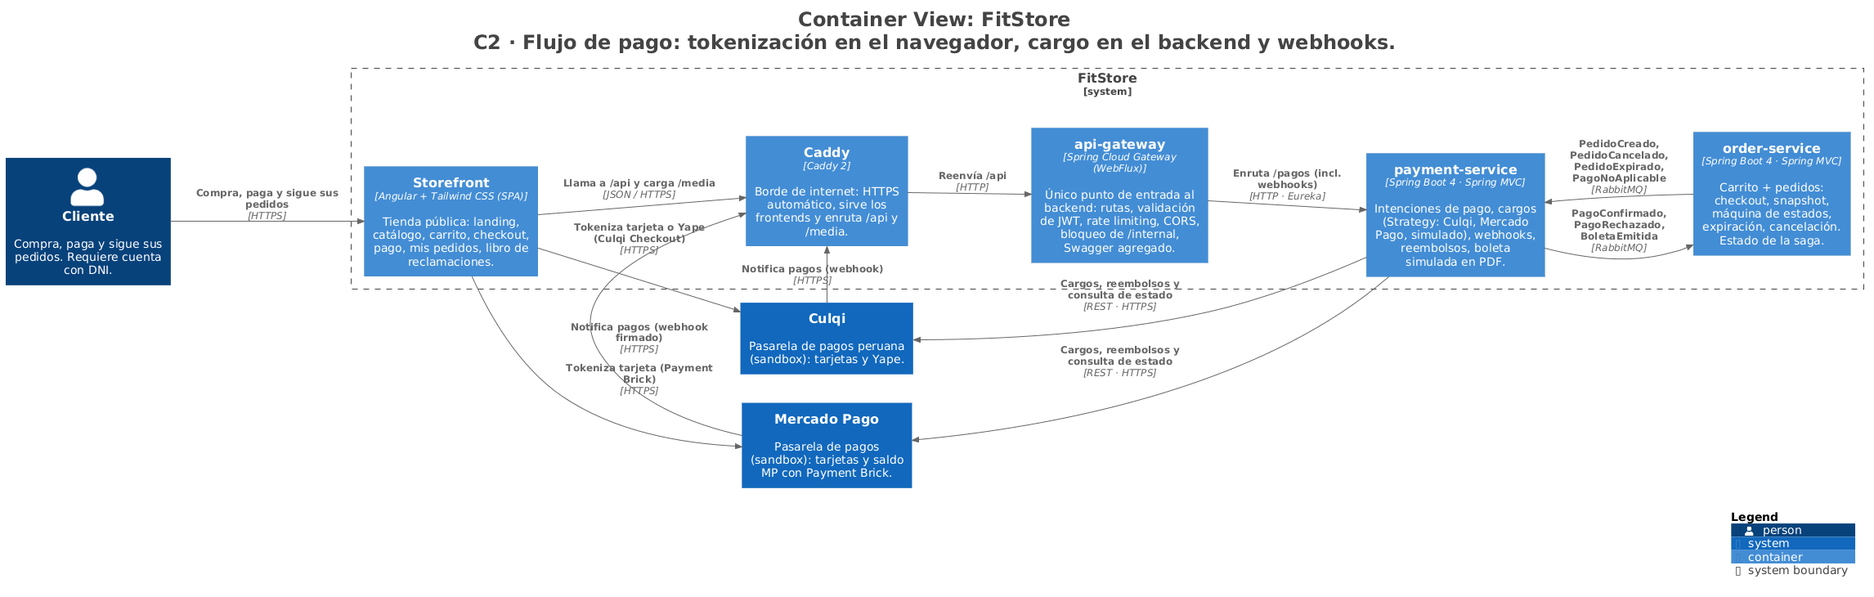
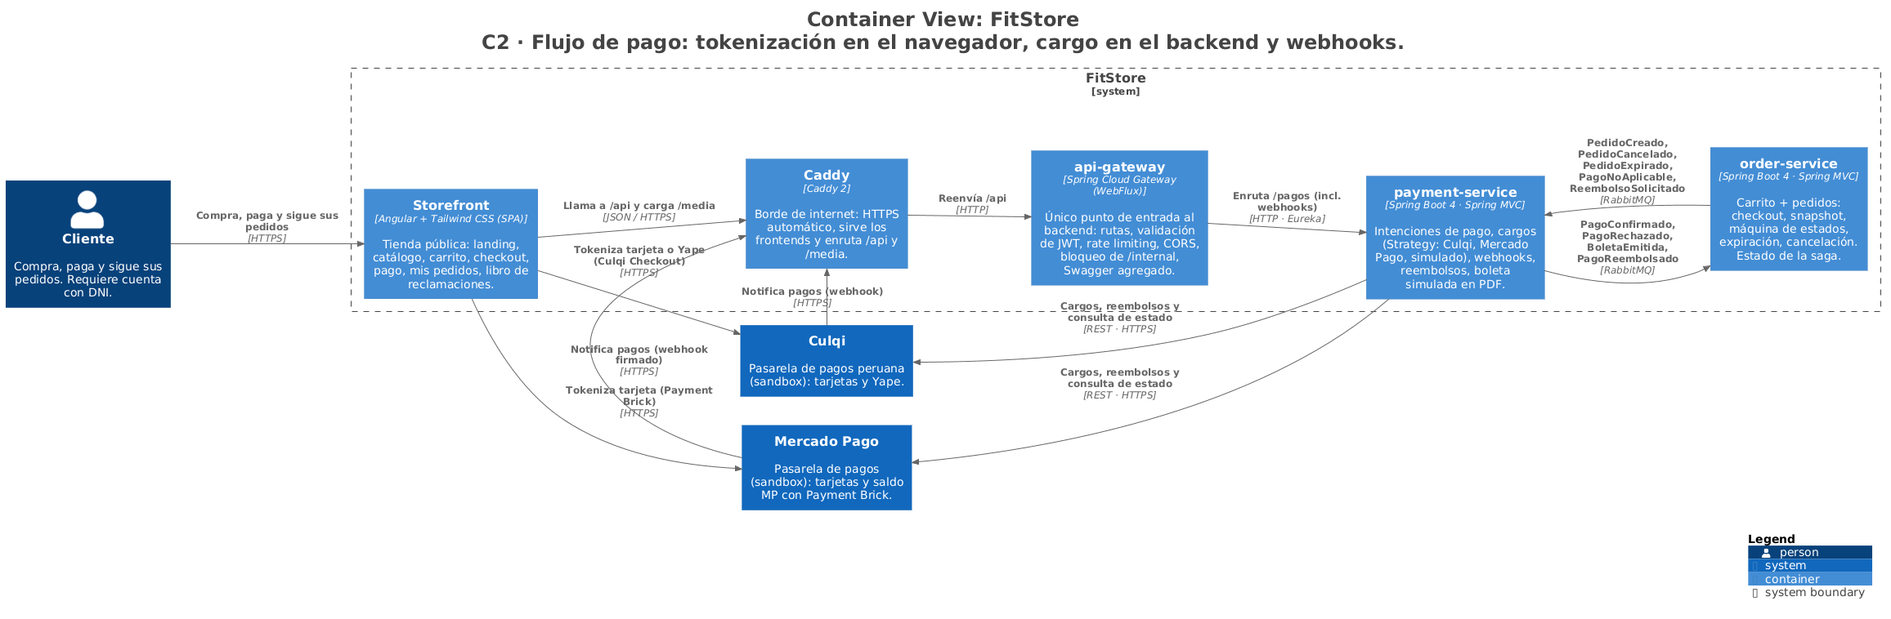
docs: revisión completa del reembolso postventa en specs, micros y C4
- SPEC-5: alcance (incluye y no incluye), resolución manual publica PagoReembolsado, datos, Postman y demo.
- SPEC-4: eventos del encabezado, alcance, Postman y demo.
- Micros: payment (hace, resolución manual, bindings), order (hace, 4.6, componentes, bindings), notification v6 (C7 parcial).
- Macro: catálogo de eventos con ReembolsoSolicitado.
- C4: eventos y componentes de order y payment; imágenes C2-Eventos, C2-Pagos, C3-order y C3-payment.

diff --git a/docs/specs/SPEC-5-pagos.md b/docs/specs/SPEC-5-pagos.md
@@ -2,11 +2,11 @@
 
 > Versión: **v3 (borrador)** — 2026-10-18 · Estados: ✅ decidido · 🟡 propuesto · ❓ abierto
 > **Dueña de:** `backend/payment-service` (intención, cobros, webhooks, reembolsos, boleta) · tienda: `features/pago` · backoffice: `features/pagos`.
-> **Depende de:** 0a, 0b, 1 (sesión) · usa el contrato de eventos de order (`PedidoCreado`, `PedidoCancelado`, `PedidoExpirado`, `PagoNoAplicable`, `ReembolsoSolicitado`) y `GET /settings/public` · **Habilita:** 4 (el pedido pasa a `PAGADO` y guarda la boleta), 7 (correos de pago, reembolso y alerta con la boleta adjunta), 8 (demo de punta a punta).
+> **Depende de:** 0a, 0b, 1 (sesión) · usa el contrato de eventos de order (`PedidoCreado`, `PedidoCancelado`, `PedidoExpirado`, `PagoNoAplicable`, `ReembolsoSolicitado`) y `GET /settings/public` · **Habilita:** 4 (el pedido pasa a `PAGADO`, guarda la boleta y registra lo reembolsado), 7 (correos de pago, reembolso y alerta con la boleta adjunta), 8 (demo de punta a punta).
 > **Contratos:** `contracts/openapi/payment-service.yaml`; eventos que publica `PagoConfirmado`, `PagoRechazado`, `BoletaEmitida`, `PagoReembolsado`, `ReembolsoFallido`.
 
 **Historial:**
-- v3 (2026-10-18): **reembolso postventa**: además de la cancelación, un pedido entregado puede reembolsarse total o parcialmente desde el pedido (SPEC-4 HU-4-12); varios reembolsos por pago; la intención pasa a `REEMBOLSADA_PARCIAL` / `REEMBOLSADA` y el estado fallido vive en cada reembolso (P8). Micros de payment v6, order v6, settings v8; macro v20; SPEC-3 v4 y SPEC-4 v4.
+- v3 (2026-10-18): **reembolso postventa**: además de la cancelación, un pedido entregado puede reembolsarse total o parcialmente desde el pedido (SPEC-4 HU-4-12); varios reembolsos por pago; la intención pasa a `REEMBOLSADA_PARCIAL` / `REEMBOLSADA` y el estado fallido vive en cada reembolso (P8). Micros de payment v6, order v6, settings v8, notification v6; macro v20; SPEC-3 v4 y SPEC-4 v4. Revisión completa de las menciones de reembolso (alcance, resolución manual con `PagoReembolsado`, datos, Postman, demo).
 - v2 (2026-10-18): P1 ✅ la prueba de concepto del sandbox es la primera tarea de la implementación; P2 ✅ se mantiene el proveedor simulado (respaldo de la demo y pruebas sin internet).
 - v1 (2026-10-18): borrador inicial.
 
@@ -16,24 +16,24 @@
 
 ## 1. Objetivo y alcance
 
-Al cerrar esta spec, el cliente **paga su pedido** con tarjeta o Yape (Culqi), con Mercado Pago o, en la demo, con el proveedor simulado, **sin que el backend vea nunca su tarjeta** y **sin que se le cobre dos veces**. Recibe su **boleta simulada** en PDF. Si el pedido se cancela después del pago, el **reembolso es automático**, y el admin ve todos los pagos y atiende los reembolsos que fallen.
+Al cerrar esta spec, el cliente **paga su pedido** con tarjeta o Yape (Culqi), con Mercado Pago o, en la demo, con el proveedor simulado, **sin que el backend vea nunca su tarjeta** y **sin que se le cobre dos veces**. Recibe su **boleta simulada** en PDF. Si el pedido se cancela después del pago, o si la tienda registra un **reembolso postventa** (total o parcial) de un pedido entregado, el **reembolso se ejecuta automáticamente**; el admin ve todos los pagos y atiende los reembolsos que fallen.
 
 **Incluye:**
 - **Primero, la prueba de concepto del sandbox** (R16, P1): Culqi con tarjeta y Yape, Mercado Pago con Payment Brick y si alguno exige 3-D Secure.
-- Toda la lógica de [`payment-service`](../analisis/micro/payment-service.md): intención por pedido, cobro con bloqueo e idempotencia, adaptadores `CulqiProvider`, `MercadoPagoProvider` y `SimuladoProvider`, webhooks verificados, verificador de pagos en curso, reembolsos con reintentos, boleta en PDF privada, backoffice de pagos y reembolsos.
+- Toda la lógica de [`payment-service`](../analisis/micro/payment-service.md): intención por pedido, cobro con bloqueo e idempotencia, adaptadores `CulqiProvider`, `MercadoPagoProvider` y `SimuladoProvider`, webhooks verificados, verificador de pagos en curso, ejecución de reembolsos totales (cancelación, `PagoNoAplicable`) y postventa totales o parciales con reintentos, boleta en PDF privada, backoffice de pagos y reembolsos.
 - Pantallas P-5-01 a P-5-05 y el diseño de la boleta (P-5-06).
 - Colección Postman `payment`.
 
 **No incluye (y dónde va):**
 - Cambiar el estado del pedido → spec 4 (consume los eventos de esta spec).
 - Correos de pago confirmado (con la boleta adjunta), pago rechazado, reembolso y alerta de reembolso fallido → spec 7 (aquí se publican los eventos y se expone `/internal/v1/boletas/{numero}`).
-- Botón "Reembolsar" suelto en la pantalla de pagos: no existe (D4 del micro). Para devolver dinero se **cancela el pedido** o se registra un **reembolso postventa** desde el pedido entregado (spec 4, HU-4-12); aquí se ejecuta.
+- **Registrar** un reembolso postventa (elegir prendas, monto, motivo y validar el plazo) → spec 4 (HU-4-12, desde el detalle del pedido). Esta spec solo lo **ejecuta** al recibir `ReembolsoSolicitado`.
 - 3-D Secure → solo si la prueba de concepto muestra que el sandbox lo exige (micro 4.3.2); entonces se agrega a esta spec.
 - Política de seguridad de contenido (CSP) que permita los scripts de Culqi y Mercado Pago → spec 8 (Caddy); aquí se documentan los dominios necesarios.
 
 ## 2. Referencias
 
-- Micro [`payment-service.md`](../analisis/micro/payment-service.md): todo (D1–D7, invariantes, datos, endpoints 4.1, intención 4.2, cobro 4.3, Yape 4.3.1, 3-D Secure 4.3.2, webhooks 4.4, reembolsos 4.5, boleta 4.6, estados, eventos, dependencias, seguridad, pruebas, diseño técnico).
+- Micro [`payment-service.md`](../analisis/micro/payment-service.md) v6: todo (D1–D7, con D4 ampliada al reembolso postventa, invariantes, datos, endpoints 4.1, intención 4.2, cobro 4.3, Yape 4.3.1, 3-D Secure 4.3.2, webhooks 4.4, reembolsos 4.5, boleta 4.6, estados, eventos, dependencias, seguridad, pruebas, diseño técnico).
 - Micro de infraestructura 4.4 (rate limiting: `POST /pagos/*/cargos`, 10 por minuto por usuario).
 - Macro: CU-10, 25, 41 · RF-PAY-00 a 09 · RNF-06 · ADR-009, 016 · riesgo R16.
 - SPEC-0b: ruta `/pago/:codigo` (storefront) y `/pagos/**`, `/reembolsos` (backoffice, solo ADMIN), badge de estado de pago, tabla paginada, diálogo. SPEC-4: P-4-02 lleva a `/pago/:codigo`; P-4-04 y P-4-06 muestran la boleta.
@@ -250,7 +250,9 @@ CA-5-37  Cuando reintento un reembolso FALLIDO
          Entonces vuelve a PENDIENTE y se ejecuta de inmediato
 
 CA-5-38  Cuando lo marco como resuelto manualmente (p. ej. devolví por transferencia) con una nota obligatoria
-         Entonces queda RESUELTO_MANUAL con mi usuario y la nota, y la intención pasa a REEMBOLSADA
+         Entonces queda RESUELTO_MANUAL con mi usuario y la nota, cuenta como reembolsado (la intención pasa a
+              REEMBOLSADA o REEMBOLSADA_PARCIAL según la suma) y se publica PagoReembolsado con manual = true,
+              para que el pedido se actualice y la clienta reciba el aviso
 ```
 
 ## 4. Pantallas
@@ -321,7 +323,7 @@ Todo según el micro de payment. Decisiones de implementación de esta spec:
 ## 6. Datos
 
 - **Sin migraciones nuevas:** el esquema completo y la fila de la serie `B001` en `correlativo_boleta` vienen en `V1` (spec 0a). Si la 0a no la sembró, esta spec agrega `VAAAAMMDD_HHMM__serie_boleta.sql`.
-- **Datos de demostración (solo `dev`):** las intenciones, transacciones (un pago aprobado tras un rechazo), un reembolso `COMPLETADO`, uno `FALLIDO` y las boletas de los pedidos de demostración de la spec 4, con PDF generados al iniciar.
+- **Datos de demostración (solo `dev`):** las intenciones, transacciones (un pago aprobado tras un rechazo), un reembolso `COMPLETADO` por cancelación, uno postventa parcial `COMPLETADO` (el de la spec 4), uno `FALLIDO` y las boletas de los pedidos de demostración de la spec 4, con PDF generados al iniciar.
 - **Llaves de prueba:** en `.env` (fuera del repo) y en los *secrets* de GitHub para la nube; `.env.example` documenta los nombres.
 
 ## 7. Pruebas
@@ -338,7 +340,7 @@ Todo según el micro de payment. Decisiones de implementación de esta spec:
 | 30–32, 39–40 | Integración | `ReembolsoServiceTest` (esperas 1-5-15-60 con reloj simulado, total único por intención, parciales con suma ≤ monto y concurrencia, `ReembolsoSolicitado` duplicado), WireMock de reembolso parcial en Culqi y Mercado Pago |
 | 33–38 | API + componente | `AdminPagoControllerTest` (filtros, 403 a OPERADOR), `reembolsos.page.spec.ts` |
 | Manual | Sandbox real | Guion de `docs/pruebas/poc-pagos.md` repetido al cerrar la spec (para el video) |
-| Todas | Postman | `postman/payment.postman_collection.json`: pago simulado aprobado, rechazado y en curso, descarga de boleta, webhook simulado, reembolso tras cancelación |
+| Todas | Postman | `postman/payment.postman_collection.json`: pago simulado aprobado, rechazado y en curso, descarga de boleta, webhook simulado, reembolso tras cancelación, reembolso postventa parcial (evento publicado a mano) y resolución manual |
 
 ## 8. Archivos y carpetas que toca
 
@@ -359,5 +361,5 @@ Todo según el micro de payment. Decisiones de implementación de esta spec:
 - [ ] CA-5-01 a CA-5-40 cumplidos en CI.
 - [ ] Postman `payment` en verde.
 - [ ] El OpenAPI de payment coincide con lo implementado; los eventos coinciden con el AsyncAPI.
-- [ ] Demostración en sandbox: pago con tarjeta de Culqi, con Yape (o con el simulado si el sandbox no lo permite, documentado), con Mercado Pago, un rechazo con reintento y un reembolso tras cancelar.
+- [ ] Demostración en sandbox: pago con tarjeta de Culqi, con Yape (o con el simulado si el sandbox no lo permite, documentado), con Mercado Pago, un rechazo con reintento, un reembolso tras cancelar y un reembolso postventa parcial.
 - [ ] Revisado y aprobado por el autor.

diff --git a/docs/specs/SPEC-4-pedidos.md b/docs/specs/SPEC-4-pedidos.md
@@ -3,10 +3,10 @@
 > Versión: **v4 (aprobado)** — 2026-10-18 · Estados: ✅ decidido · 🟡 propuesto · ❓ abierto
 > **Dueña de:** `backend/order-service` (carrito, checkout, pedidos, saga) · tienda: `features/carrito`, `features/checkout`, `features/mis-pedidos` · backoffice: `features/pedidos`.
 > **Depende de:** 0a, 0b, 1 (sesión y direcciones) · usa los contratos de catalog (cotizar, reservar), auth (cliente y dirección), delivery (opciones y cotización de envío) y settings (parámetros y ubigeo) · **Habilita:** 5 (pago del pedido), 6 (entrega desde `PedidoListoDespacho`), 7 (correos del pedido), 8 (dashboard y E2E).
-> **Contratos:** `contracts/openapi/order-service.yaml`; eventos que publica `PedidoCreado`, `PedidoPagado`, `PedidoCancelado`, `PedidoExpirado`, `PagoNoAplicable`, `PedidoListoDespacho`, `PedidoListoRecojo`, `PedidoRecogido`; consume `PagoConfirmado`, `PagoRechazado`, `BoletaEmitida`, `EntregaActualizada`.
+> **Contratos:** `contracts/openapi/order-service.yaml`; eventos que publica `PedidoCreado`, `PedidoPagado`, `PedidoCancelado`, `PedidoExpirado`, `PagoNoAplicable`, `PedidoListoDespacho`, `PedidoListoRecojo`, `PedidoRecogido`, `ReembolsoSolicitado`; consume `PagoConfirmado`, `PagoRechazado`, `BoletaEmitida`, `PagoReembolsado`, `EntregaActualizada`.
 
 **Historial:**
-- v4 (2026-10-18): nueva **HU-4-12 Reembolso postventa** (CA-4-54 a 59) decidida en la SPEC-5: total o parcial desde un pedido entregado, solo ADMIN, plazo configurable (0 = sin límite); las ventas restan lo reembolsado (CA-4-52). Micro de order v6.
+- v4 (2026-10-18): nueva **HU-4-12 Reembolso postventa** (CA-4-54 a 59) decidida en la SPEC-5 (también en el alcance, los eventos del encabezado, Postman y la demostración): total o parcial desde un pedido entregado, solo ADMIN, plazo configurable (0 = sin límite); las ventas restan lo reembolsado (CA-4-52). Micro de order v6.
 - v3 (2026-10-18): O3 y O6 aprobados (micro de order v5) → **spec aprobada**.
 - v2 (2026-10-18): O1 ✅ checkout en una sola página; O2 ✅ la nueva dirección se agrega en un diálogo sobre el checkout (reutiliza `DialogoDireccion` de la SPEC-1, A6); cada etapa del seguimiento lleva una breve descripción debajo de su nombre (O9).
 - v1 (2026-10-18): borrador inicial.
@@ -17,10 +17,10 @@
 
 ## 1. Objetivo y alcance
 
-Al cerrar esta spec, el cliente **arma su carrito** (con o sin sesión), ve sus descuentos por volumen, **elige cómo recibir su compra** y **confirma el pedido** con stock reservado y montos congelados; luego **sigue su pedido** hasta la entrega o lo cancela si aún puede. El operador **gestiona los pedidos** en el backoffice y los avanza hasta el despacho o el recojo. Es el **corazón de la saga** (ADR-009): el estado del pedido es el estado de la saga.
+Al cerrar esta spec, el cliente **arma su carrito** (con o sin sesión), ve sus descuentos por volumen, **elige cómo recibir su compra** y **confirma el pedido** con stock reservado y montos congelados; luego **sigue su pedido** hasta la entrega o lo cancela si aún puede. El operador **gestiona los pedidos** en el backoffice y los avanza hasta el despacho o el recojo; el administrador puede **reembolsar total o parcialmente** un pedido ya entregado. Es el **corazón de la saga** (ADR-009): el estado del pedido es el estado de la saga.
 
 **Incluye:**
-- Toda la lógica de [`order-service`](../analisis/micro/order-service.md): carrito en Redis (anónimo, de cliente, fusión, última cotización), resumen y confirmación del checkout con idempotencia, copia congelada del pedido, máquina de estados con historial, expiración, consumo de los eventos de pago y de entrega, cancelación con compensaciones, consultas del cliente y del backoffice, y el resumen de ventas para el dashboard.
+- Toda la lógica de [`order-service`](../analisis/micro/order-service.md): carrito en Redis (anónimo, de cliente, fusión, última cotización), resumen y confirmación del checkout con idempotencia, copia congelada del pedido, máquina de estados con historial, expiración, consumo de los eventos de pago y de entrega, cancelación con compensaciones, reembolso postventa (micro 4.8), consultas del cliente y del backoffice, y el resumen de ventas para el dashboard.
 - Pantallas P-4-01 a P-4-06.
 - Datos de demostración para `dev`.
 - Colección Postman `order` y prueba de carga k6 del checkout.
@@ -437,7 +437,7 @@ Todo según el micro de order. Decisiones de implementación de esta spec:
 | 43–48 | API + integración | `AdminPedidoControllerTest` (permisos, transiciones, 409 por versión), `SagaPedidoIT` (`EntregaActualizada`) |
 | 51–53 | Datos + API | `ResumenVentasQueriesTest` (fecha de pago, sin cancelados, neto de reembolsos), 403 a OPERADOR |
 | 54–59 | Unitaria + API + integración | `ReembolsoPostventaServiceTest` (plazo dentro, fuera y 0, suma ≤ total, monto propuesto), `AdminPedidoControllerTest` (403 a OPERADOR), `SagaPedidoIT` (`PagoReembolsado` actualiza el pedido), `dialogo-reembolso.spec.ts` |
-| Todas | Postman | `postman/order.postman_collection.json`: carrito anónimo → login y fusión → resumen → confirmar → pago simulado (evento publicado a mano) → seguimiento; flujo del operador hasta entregado y recojo |
+| Todas | Postman | `postman/order.postman_collection.json`: carrito anónimo → login y fusión → resumen → confirmar → pago simulado (evento publicado a mano) → seguimiento; flujo del operador hasta entregado y recojo; reembolso postventa parcial con `PagoReembolsado` publicado a mano |
 
 ## 8. Archivos y carpetas que toca
 
@@ -457,5 +457,5 @@ Todo según el micro de order. Decisiones de implementación de esta spec:
 - [ ] CA-4-01 a CA-4-59 cumplidos en CI (el 26 en `stage`).
 - [ ] Postman `order` en verde y k6 con p95 < 2 s.
 - [ ] El OpenAPI de order coincide con lo implementado; los eventos coinciden con el AsyncAPI.
-- [ ] Demostración: carrito anónimo → login → checkout → pedido en PENDIENTE_PAGO → (pago simulado) → el operador lo prepara y despacha → el cliente ve la línea de tiempo.
+- [ ] Demostración: carrito anónimo → login → checkout → pedido en PENDIENTE_PAGO → (pago simulado) → el operador lo prepara y despacha → el cliente ve la línea de tiempo → el admin registra un reembolso postventa parcial.
 - [ ] Revisado y aprobado por el autor.

diff --git a/docs/analisis/micro/order-service.md b/docs/analisis/micro/order-service.md
@@ -21,7 +21,7 @@
 
 **Hace:**
 - **Módulo carrito:** carrito anónimo y de cliente, fusión al iniciar sesión, precios y descuentos siempre actualizados (consultando a catalog).
-- **Módulo pedidos:** checkout (resumen y confirmación), creación del pedido con **copia** (snapshot) de productos, precios, descuentos, destinatario, dirección y envío; máquina de estados; historial; expiración de pedidos sin pago; cancelación; consulta para el cliente (mis pedidos, seguimiento) y gestión en el backoffice.
+- **Módulo pedidos:** checkout (resumen y confirmación), creación del pedido con **copia** (snapshot) de productos, precios, descuentos, destinatario, dirección y envío; máquina de estados; historial; expiración de pedidos sin pago; cancelación; **reembolso postventa** de pedidos entregados (4.8); consulta para el cliente (mis pedidos, seguimiento) y gestión en el backoffice.
 - **Estado de la saga** de checkout y pago (ADR-009): el estado del pedido es el estado de la saga.
 
 **No hace:**
@@ -287,7 +287,7 @@ sequenceDiagram
 | Staff | `PENDIENTE_PAGO`, `PAGADO`, `EN_PREPARACION` (motivo obligatorio) | Igual |
 
 - Publica `PedidoCancelado {fuePagado, motivo, actor}`.
-- **Después de `LISTO_DESPACHO` ya no se cancela**: el pedido ya salió o está por salir; un retorno sería una devolución, fuera de alcance. Así delivery no necesita escuchar cancelaciones (KISS).
+- **Después de `LISTO_DESPACHO` ya no se cancela**: el pedido ya salió o está por salir. Así delivery no necesita escuchar cancelaciones (KISS). Si una vez entregado hay un problema, se usa el **reembolso postventa** (4.8).
 
 ### 4.8 Reembolso postventa (CU-25, RF-ORD-11)
 
@@ -423,7 +423,7 @@ Stack y versiones comunes: [`docs/arquitectura/stack-versiones.md`](../../arquit
 | Capa | Componentes |
 |---|---|
 | Controladores | `CarritoController`, `CheckoutController`, `PedidoController`, `AdminPedidoController` |
-| Servicios | `CarritoService`, `CheckoutService`, `PedidoService`, `MaquinaEstadosPedido` (pura), `ResumenVentasService` |
+| Servicios | `CarritoService`, `CheckoutService`, `PedidoService`, `MaquinaEstadosPedido` (pura), `ResumenVentasService`, `ReembolsoPostventaService` |
 | Procesos | `ExpiradorPedidos` (`@Scheduled`), `ConsumidorEventos` (`@RabbitListener`) |
 | Clientes Feign | `CatalogClient`, `AuthClient`, `DeliveryClient`, `SettingsClient` (todos con Resilience4j) |
 | Repositorios | `PedidoRepository` (JPA), `CarritoRepository` (Redis) |
@@ -482,12 +482,12 @@ com.fitstore.order
 │   ├── dto, mapper   PedidoMapper, PedidoItemMapper
 │   ├── model         Pedido (+ @Embeddable Destinatario, DireccionEnvio, Envio), PedidoItem, HistorialEstado, enums
 │   ├── repository    PedidoRepository, PedidoSpecifications, ResumenVentasQueries
-│   ├── service       CheckoutService, PedidoService, ResumenVentasService
+│   ├── service       CheckoutService, PedidoService, ResumenVentasService, ReembolsoPostventaService
 │   │   └── dominio   MaquinaEstadosPedido
 │   └── messaging     ConsumidorEventos, ExpiradorPedidos
 ├── client            CatalogClient, AuthClient, DeliveryClient, SettingsClient (+ DTOs de cada API)
 └── event             PedidoCreado, PedidoPagado, PedidoCancelado, PedidoExpirado, PagoNoAplicable,
-                      PedidoListoDespacho, PedidoListoRecojo, PedidoRecogido
+                      PedidoListoDespacho, PedidoListoRecojo, PedidoRecogido, ReembolsoSolicitado
 ```
 
 ### 10.4 Dependencias
@@ -548,7 +548,7 @@ fitstore:
 |---|---|
 | PostgreSQL `order_db` | Tablas de 3.1 y secuencia `pedido_codigo_seq` |
 | Redis (prefijo `order:`) | Carritos, última cotización, caché de settings |
-| RabbitMQ | Publica `order.*` (8 eventos). Cola `order.eventos` enlazada a `payment.pago.confirmado`, `payment.pago.rechazado`, `payment.boleta.emitida`, `delivery.entrega.actualizada`; DLQ |
+| RabbitMQ | Publica `order.*` (9 eventos). Cola `order.eventos` enlazada a `payment.pago.confirmado`, `payment.pago.rechazado`, `payment.boleta.emitida`, `payment.reembolso.completado`, `delivery.entrega.actualizada`; DLQ |
 | Servicios | catalog, auth, delivery, settings vía Feign + Eureka |
 
 ---

diff --git a/docs/analisis/micro/payment-service.md b/docs/analisis/micro/payment-service.md
@@ -23,7 +23,7 @@
 - Crea una **intención de pago** por pedido al recibir `PedidoCreado`, con el monto, los ítems y los datos del cliente (RF-PAY-00).
 - Procesa **cargos** con Culqi (**tarjeta y Yape**), Mercado Pago o el proveedor simulado, detrás de la interfaz `PaymentProvider` (Strategy + capa anticorrupción, ADR-016).
 - Recibe y verifica **webhooks** de las pasarelas, de forma idempotente.
-- Ejecuta **reembolsos** automáticos (cancelación de un pedido pagado, `PagoNoAplicable`) con reintentos y alerta si fallan.
+- Ejecuta **reembolsos** automáticos, siempre originados en el pedido: totales (cancelación de un pedido pagado, `PagoNoAplicable`) y postventa totales o parciales (`ReembolsoSolicitado`), con reintentos y alerta si fallan.
 - Emite la **boleta simulada** en PDF (RF-PAY-08) y la sirve solo al dueño y al staff.
 - Muestra pagos, transacciones y reembolsos en el backoffice (CU-25).
 
@@ -258,7 +258,7 @@ Fuera del MVP. Se usan las tarjetas de prueba del sandbox que no exigen autentic
 
 - Un proceso toma los reembolsos `PENDIENTE` y llama a `reembolsar()`. Éxito → `COMPLETADO`; la intención pasa a `REEMBOLSADA` si la suma reembolsada iguala el monto, o a `REEMBOLSADA_PARCIAL` si no; publica `PagoReembolsado`.
 - Error → reintentos con espera creciente: **1, 5, 15 y 60 min**. Tras el 4.º fallo → `FALLIDO` y publica `ReembolsoFallido` (alerta al admin). La intención no cambia: el estado en curso o fallido vive en cada reembolso.
-- El admin puede **reintentar** (vuelve a `PENDIENTE`) o **marcar como resuelto manualmente** (por ejemplo, devolvió el dinero por transferencia), con nota obligatoria.
+- El admin puede **reintentar** (vuelve a `PENDIENTE`) o **marcar como resuelto manualmente** (por ejemplo, devolvió el dinero por transferencia), con nota obligatoria. Resuelto manualmente cuenta como completado: actualiza la intención y publica `PagoReembolsado` con `manual = true`.
 
 ### 4.6 Boleta simulada (T6, RF-PAY-08)
 
@@ -308,7 +308,7 @@ Exchange `fitstore.eventos` (topic), sobre común, outbox e idempotencia (ADR-00
 | `PagoConfirmado` | `payment.pago.confirmado` | `pedidoId`, `intencionId`, `transaccionId`, `proveedor`, `monto`, `confirmadoEn` | order |
 | `PagoRechazado` | `payment.pago.rechazado` | `pedidoId`, `proveedor`, `motivo` | order (historial) |
 | `BoletaEmitida` | `payment.boleta.emitida` | `pedidoId`, `numero`, `url` (endpoint autenticado de descarga) | order, notification (adjunto) |
-| `PagoReembolsado` ✅ **nuevo** | `payment.reembolso.completado` | `pedidoId`, `codigoPedido`, `solicitudId` (solo postventa), `monto`, `parcial`, `motivo`, `cliente` (nombre, email) | notification (avisa al cliente) |
+| `PagoReembolsado` ✅ **nuevo** | `payment.reembolso.completado` | `pedidoId`, `codigoPedido`, `solicitudId` (solo postventa), `monto`, `parcial`, `motivo`, `manual`, `cliente` (nombre, email) | notification (avisa al cliente) |
 | `ReembolsoFallido` ✅ **nuevo** | `payment.reembolso.fallido` | `pedidoId`, `codigoPedido`, `monto`, `ultimoError`, `intentos` | notification (alerta al admin) |
 
 **Consume:** `PedidoCreado`, `PedidoCancelado`, `PedidoExpirado`, `PagoNoAplicable`, `ReembolsoSolicitado` (order).
@@ -522,7 +522,7 @@ Un proveedor sin credenciales no se ofrece en la página de pago (3.3).
 |---|---|
 | PostgreSQL `payment_db` | Tablas de 3.1 |
 | Redis (prefijo `payment:`) | Caché de settings |
-| RabbitMQ | Publica `payment.*` (5 eventos). Cola `payment.eventos` enlazada a `order.pedido.creado`, `order.pedido.cancelado`, `order.pedido.expirado`, `order.pago.no-aplicable`; DLQ |
+| RabbitMQ | Publica `payment.*` (5 eventos). Cola `payment.eventos` enlazada a `order.pedido.creado`, `order.pedido.cancelado`, `order.pedido.expirado`, `order.pago.no-aplicable`, `order.reembolso.solicitado`; DLQ |
 | Garage | Bucket **privado** `fitstore-privado`, prefijo `boletas/` |
 | Externos | Culqi y Mercado Pago (sandbox); sus webhooks entran por Caddy → gateway |
 

diff --git a/docs/analisis/micro/notification-service.md b/docs/analisis/micro/notification-service.md
@@ -1,9 +1,10 @@
 # FitStore — Análisis micro: `notification-service`
 
-> Versión: **v5 (aprobado)** — 2026-10-16. Fuente: [`01-analisis-macro.md`](../01-analisis-macro.md) v15.
+> Versión: **v6 (aprobado)** — 2026-10-18. Fuente: [`01-analisis-macro.md`](../01-analisis-macro.md) v15.
 > Estados: ✅ decidido · 🟡 propuesto · ❓ abierto · 🕓 diferido
 
 **Historial:**
+- v6 (2026-10-18): el correo C7 (reembolso realizado) distingue el reembolso parcial postventa (SPEC-5).
 - v5 (2026-10-18): sección 10 aprobada → **documento completo aprobado**.
 - v4 (2026-10-18): sección 10 (diseño técnico) redactada: C3, código de las partes críticas, paquetes, dependencias, configuración e infraestructura.
 - v3 (2026-10-16): catálogo reducido a **13 correos al cliente + 4 alertas a la tienda** (se quitan vencido y fecha asignada; se unen "en camino" y "listo para recoger"; se mantiene "entregado" como confirmación) → **documento aprobado**.
@@ -140,7 +141,7 @@ classDiagram
 | C4 | `PasswordCambiado` | Tu contraseña cambió | Aviso de seguridad, "si no fuiste tú…" | |
 | C5 | `BoletaEmitida` | ¡Pedido confirmado! | Resumen, modalidad de entrega, **boleta PDF adjunta** (4.3). **Primer correo del pedido**: antes del pago no se envía nada | ✔ |
 | C6 | `PedidoCancelado` | Pedido cancelado | Motivo; si estaba pagado: "procesaremos tu reembolso" | |
-| C7 | `PagoReembolsado` | Reembolso realizado | Monto y medio de pago | |
+| C7 | `PagoReembolsado` | Reembolso realizado | Monto, medio de pago y, si es parcial (postventa), "reembolso parcial de tu pedido" con el motivo | |
 | C8 | `EntregaActualizada` → `EN_RUTA` o `ENVIADO_AGENCIA` | Tu pedido va en camino | Delivery local: fecha y repartidor. Agencia: agencia, código de seguimiento y enlace de rastreo | |
 | C9 | `EntregaActualizada` → `FALLIDA` | No pudimos entregar tu pedido | Observación, "te contactaremos para reprogramar" | |
 | C10 | `EntregaActualizada` → `DISPONIBLE_EN_AGENCIA` o `PedidoListoRecojo` | Tu pedido está listo para recoger | Agencia y clave de recojo, o dirección y horario de la tienda; "lleva tu DNI" | |

diff --git a/docs/analisis/01-analisis-macro.md b/docs/analisis/01-analisis-macro.md
@@ -469,7 +469,8 @@ flowchart LR
 | `PagoConfirmado` / `PagoRechazado` | payment | order |
 | `PagoNoAplicable` (pago llegó con el pedido ya expirado/cancelado) | order | payment (reembolso automático) |
 | `BoletaEmitida` (URL del PDF) | payment | notification (adjuntar al correo), order (enlace en "Mis pedidos") |
-| `PagoReembolsado` | payment | notification (aviso al cliente) |
+| `ReembolsoSolicitado` (reembolso postventa, total o parcial) | order | payment (ejecutar el reembolso) |
+| `PagoReembolsado` | payment | notification (aviso al cliente), order (registrar lo reembolsado) |
 | `ReembolsoFallido` | payment | notification (alerta al admin) |
 | `PedidoPagado` | order | catalog (confirmar reserva), notification |
 | `PedidoCancelado` / `PedidoExpirado` | order | catalog (liberar), payment (reembolsar si aplica), notification |
